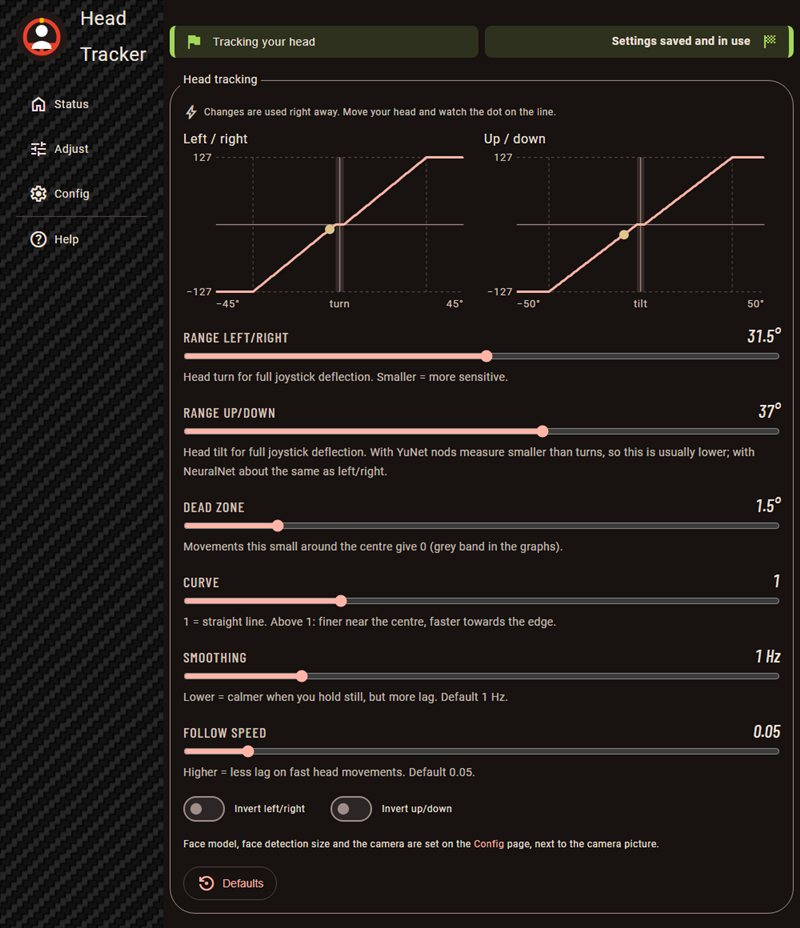
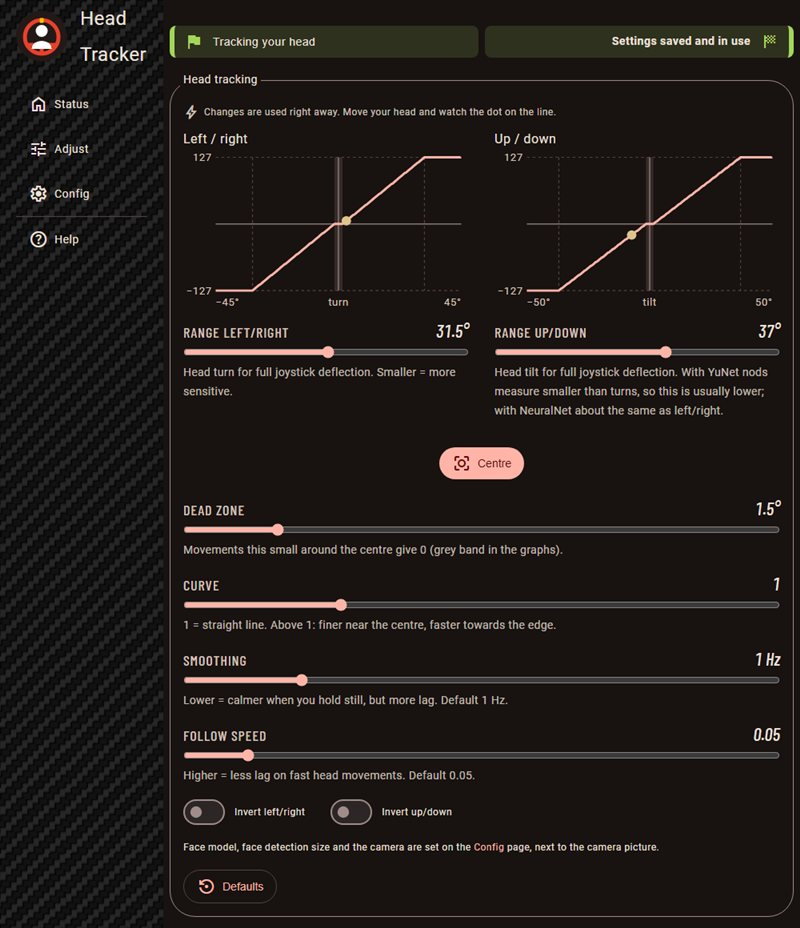
Web app: Adjust page - range sliders under their graphs, Centre button

diff --git a/templates/adjust.html b/templates/adjust.html
@@ -11,8 +11,11 @@
            (BeerCSS leaves 2rem below every field; the help text needs more) */
         .field:has(> .helper) { margin-bottom: 3.25rem; }
 
-        .graphs { display: flex; flex-wrap: wrap; gap: 16px; margin: 8px 0 16px 0; }
+        .graphs { display: flex; flex-wrap: wrap; gap: 16px 32px; margin: 8px 0 0 0; }
         .graph { flex: 1 1 260px; max-width: 360px; }
+        .graph .setting { margin-top: 12px; }
+        /* Centre button in the middle under the two graphs */
+        .graph-actions { max-width: 752px; justify-content: center; margin: 0 0 24px 0; }
         .graph svg { width: 100%; height: auto; display: block; }
         .graph h6 { margin: 0 0 4px 0; font-size: 1rem; }
         .graph .axis { stroke: var(--outline); stroke-width: 1; }
@@ -40,27 +43,35 @@
                 <legend>Head tracking</legend>
                 <p class="live-note small-text"><i class="small">bolt</i>Changes are used right away. Move your head and watch the dot on the line.</p>
 
+                <!-- Each graph with its range right below it: side by side on wide
+                     screens, one after the other on narrow ones -->
                 <div class="graphs">
                     <div class="graph">
                         <h6>Left / right</h6>
                         <svg id="graph_x" viewBox="0 0 300 170" aria-label="Head turn to joystick X"></svg>
+                        <div class="setting">
+                            <div class="head"><label class="readout-label" for="track_range_x">Range left/right</label><span class="value readout" id="track_range_x_v"></span></div>
+                            <input type="range" id="track_range_x" name="track_range_x" min="2" max="60" step="0.5" value="{{track_range_x}}" />
+                            <div class="help">Head turn for full joystick deflection. Smaller = more sensitive.</div>
+                        </div>
                     </div>
                     <div class="graph">
                         <h6>Up / down</h6>
                         <svg id="graph_y" viewBox="0 0 300 170" aria-label="Head tilt to joystick Y"></svg>
+                        <div class="setting">
+                            <div class="head"><label class="readout-label" for="track_range_y">Range up/down</label><span class="value readout" id="track_range_y_v"></span></div>
+                            <input type="range" id="track_range_y" name="track_range_y" min="2" max="60" step="0.5" value="{{track_range_y}}" />
+                            <div class="help">Head tilt for full joystick deflection. With YuNet nods measure smaller than turns, so this is usually lower; with NeuralNet about the same as left/right.</div>
+                        </div>
                     </div>
                 </div>
 
-                <div class="setting">
-                    <div class="head"><label class="readout-label" for="track_range_x">Range left/right</label><span class="value readout" id="track_range_x_v"></span></div>
-                    <input type="range" id="track_range_x" name="track_range_x" min="2" max="60" step="0.5" value="{{track_range_x}}" />
-                    <div class="help">Head turn for full joystick deflection. Smaller = more sensitive.</div>
-                </div>
-                <div class="setting">
-                    <div class="head"><label class="readout-label" for="track_range_y">Range up/down</label><span class="value readout" id="track_range_y_v"></span></div>
-                    <input type="range" id="track_range_y" name="track_range_y" min="2" max="60" step="0.5" value="{{track_range_y}}" />
-                    <div class="help">Head tilt for full joystick deflection. With YuNet nods measure smaller than turns, so this is usually lower; with NeuralNet about the same as left/right.</div>
-                </div>
+                <nav class="graph-actions">
+                    <button type="button" id="centre" title="Look straight at the screen, then press">
+                        <i>center_focus_strong</i>
+                        <span>Centre</span>
+                    </button>
+                </nav>
                 <div class="setting">
                     <div class="head"><label class="readout-label" for="track_deadzone">Dead zone</label><span class="value readout" id="track_deadzone_v"></span></div>
                     <input type="range" id="track_deadzone" name="track_deadzone" min="0" max="10" step="0.1" value="{{track_deadzone}}" />
@@ -194,6 +205,10 @@
             el(id).addEventListener("input", () => { showValues(); sendSoon(); });
         for (const id of ["track_invert_x", "track_invert_y"])
             el(id).addEventListener("change", () => { showValues(); send(); });
+
+        el("centre").addEventListener("click", async () => {
+            await fetch("/centre", { method: "POST" });
+        });
 
         el("defaults").addEventListener("click", () => {
             for (const id of sliders) el(id).value = defaults[id];

diff --git a/README.md b/README.md
@@ -195,7 +195,7 @@ The same data is available as JSON at `/state`; `POST /centre` does what the but
 
 ![Adjust page](docs/images/adjust.jpg)
 
-How head movements become joystick movements. Every change is used right away; nothing restarts and the centre position stays. Two graphs show how head turn (left/right) and head tilt (up/down) become joystick values: the line is the current setting, the grey band the dead zone, and the dot on it shows where your head is now and what the joystick sends. Move a slider and the line changes at once.
+How head movements become joystick movements. Every change is used right away; nothing restarts and the centre position stays. Two graphs show how head turn (left/right) and head tilt (up/down) become joystick values: the line is the current setting, the grey band the dead zone, and the dot on it shows where your head is now and what the joystick sends. Each graph has its range slider right below it; move a slider and the line changes at once. Below the graphs is the **Centre** button, as on the Status and Config pages.
 
 | Setting | Meaning |
 |---|---|
@@ -271,7 +271,7 @@ On Linux, `jstest /dev/input/js0` (package `joystick`) shows the same.
 
 ## Head tracking
 
-- **Centre position:** after the start, and when you press **Centre** on the Status or Config page, the program averages the head position over the next 15 frames with a face and uses it as "straight ahead". The log shows `Head tracker: centre set …`.
+- **Centre position:** after the start, and when you press **Centre** on the Status, Adjust or Config page, the program averages the head position over the next 15 frames with a face and uses it as "straight ahead". The log shows `Head tracker: centre set …`.
 - **Range:** by default 20° of head turn or 10° of head tilt gives full joystick deflection. Tilt has the smaller range because with YuNet the five face points show a nod less clearly than a turn, so nods measure smaller than they are. NeuralNet measures nods at their real size; there about 20° for both is a good start. Small movements within 1.5° of the centre give 0 (dead zone), so the view stays still when you hold your head still. Both can be changed on the Adjust page and are used right away.
 - **Smoothing:** a "1€ filter" smooths strongly while the head is still (no jitter) and hardly at all during fast movements (little lag).
 - **Face lost:** the joystick holds its last values for 0.5 s, then returns to the centre within 1 s.
